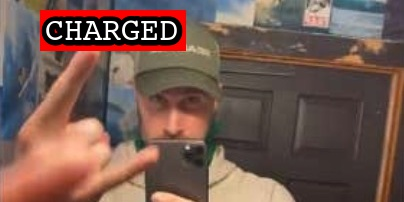
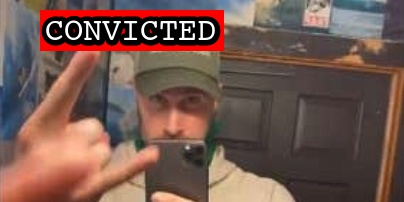
Schaefer plea

Changed region(s): [[0.1485, 0.0297, 0.5644, 0.2673]]

diff --git a/docs/_suspects/jeffrey-schaefer.md b/docs/_suspects/jeffrey-schaefer.md
@@ -4,16 +4,18 @@ lastName: Schaefer
 hashtag: Insider723
 aka:
 residence: Delaware
-status: Charged
+status: Convicted
 date: 2022-01-11
 charged: 2022-01-11
 indicted:
-convicted:
+convicted: 2022-08-02
+acquitted:
 sentenced:
 dismissed:
 deceased:
-plea_hearing:
-sentencing:
+plea_hearing: 2022-08-02
+trial_date:
+sentencing: 2022-11-18
 age:
 occupation:
 affiliations:
@@ -25,7 +27,7 @@ courtroom:
 courthouse:
 raid:
 perpwalk:
-quote: 'THE CAPITOL HAS BEEN BREACHED - IT IS FILLING UP - THEY CAN’T STOP US'
+quote: "THE CAPITOL HAS BEEN BREACHED - IT IS FILLING UP - THEY CAN’T STOP US"
 title: Jeffrey Schaefer charged on 1/11/2022
 description: Click for latest case details. Suspects innocent until proven guilty.
 author: seditiontrack
@@ -34,7 +36,12 @@ published: true
 caseNumber: 1:22-mj-000
 videos:
 charges:
+  - code: 40 USC § 5104(e)(2)(G)
+    title: Parading, demonstrating or picketing in a Capitol building
+    url: https://www.law.cornell.edu/uscode/text/40/5104
+    felony: false
 sentence:
 ---
+
 - [News Report](https://www.delawareonline.com/story/news/2022/01/14/jeffrey-schaefer-arrested-jan-6-capitol-riots-washington-facebook/6528740001/)
 - [Statement of Facts](https://www.justice.gov/usao-dc/case-multi-defendant/file/1481446/download)
